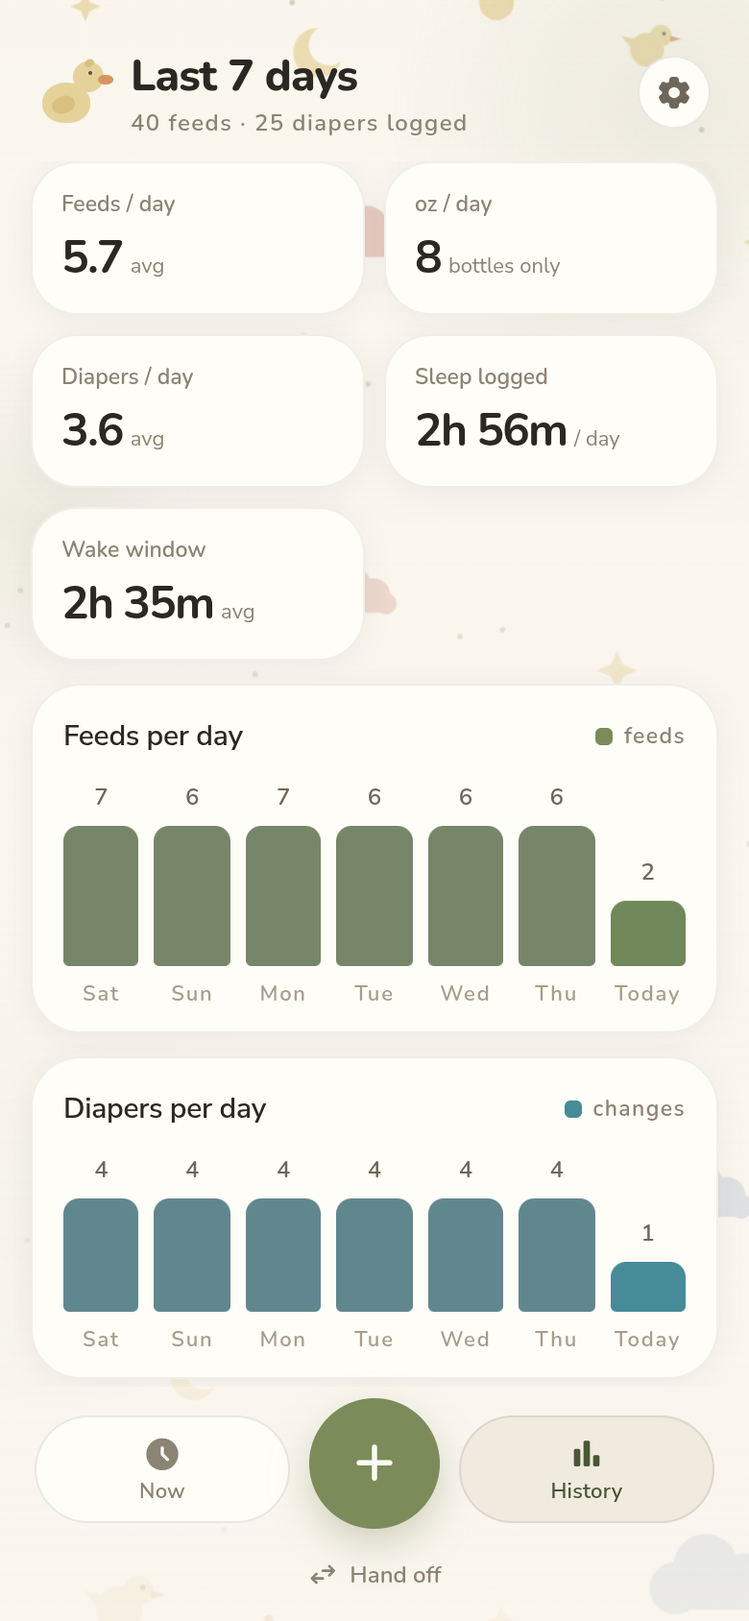
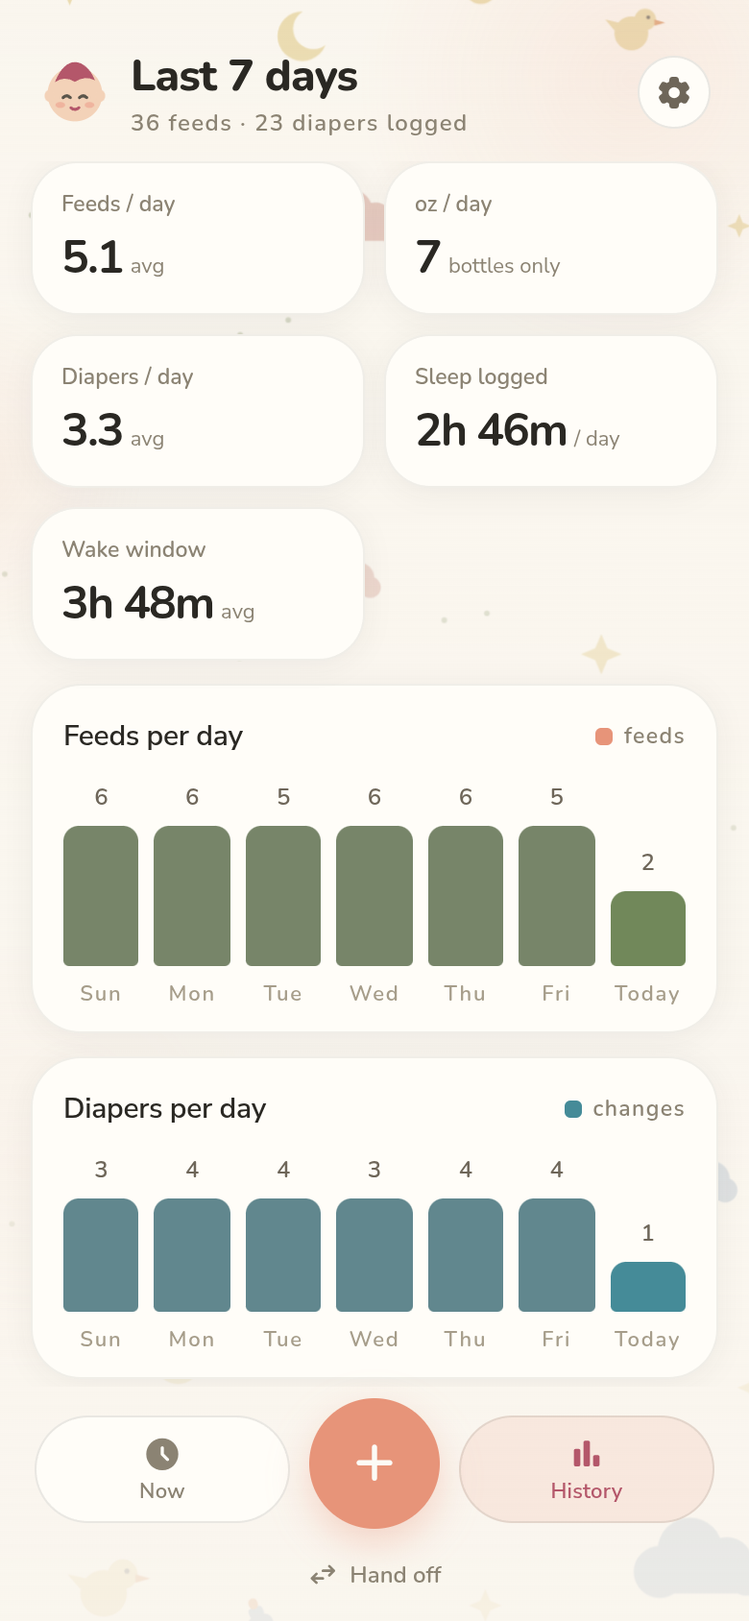
docs: accuracy audit — fix stale claims, add mybabynotes.app, retake post-rebrand screenshots
Audited every doc against the code and fixed what drifted:

- README: link mybabynotes.app; pump timers open the sheet (no auto-log);
  six pickable since-cards; partner-timer push; shared themes; honest
  pre-first-release install caveats (no tags/images on GHCR yet)
- api.md: document /forgot-password, /reset-password, /account/*; add
  formerMembers, limits, shift until_at + cancelled state, timer &
  feedEveryByChild prefs, theme/medName settings; fix invite 422-vs-403
  quirk and shift-request wording
- architecture.md: fallback polling is 20s (60s is the connected
  heartbeat) — also fixed in operations/ca-submission; document AIO
  container, Baby Buddy import, AccountProvisioner seam, sleep timers,
  push-subscribe poke exception, post-rebrand comp divergence
- operations.md: open-registration on script installs documented as
  unsupported (update wipes src/ before compose up); named-volume backup
  path for generic compose; babylog-reset-data is NAS-only
- ca-template.xml: Overview updated from "exactly two parents, one baby"
  to 6 adults / 10 children with parent/caregiver roles
- api/README.md: replace stock Laravel boilerplate with a pointer README
- screenshots: retaken from the demo household — the old set predated
  the rebrand by half a day and still showed the duck branding

diff --git a/docs/architecture.md b/docs/architecture.md
@@ -1,6 +1,6 @@
 # Architecture
 
-mybabynotes is three containers behind one nginx, built for one household sharing its babies' log — up to six grown-ups (parents and caregivers) and up to ten children.
+mybabynotes is three containers behind one nginx, built for one household sharing its babies' log — up to six grown-ups (parents and caregivers) and up to ten children. (The Unraid/CA build collapses the same three processes into a single all-in-one container — nginx, `artisan serve`, Reverb, and the scheduler under supervisord, secrets self-generated into `/data/.env` on first boot; see [deploy/aio/](../deploy/aio/) and [docs/operations.md](operations.md).)
 
 ```
                     ┌─────────────────────────────────────────────┐
@@ -16,7 +16,7 @@ mybabynotes is three containers behind one nginx, built for one household sharin
 ## Frontend (`src/`)
 
 - **Vite + React 18**, one class component ([src/App.jsx](../src/App.jsx)) holding all state — the app is small enough that a store library would be overhead.
-- **Design fidelity**: markup was ported 1:1 from the Claude Design comp in [design/Baby Log.dc.html](../design/Baby%20Log.dc.html). Inline CSS strings from the comp pass through [src/s.js](../src/s.js) (a cached CSS-string → style-object parser) so visual diffs against the comp stay reviewable. Hover states live as utility classes in [src/styles.css](../src/styles.css).
+- **Design fidelity**: markup was ported 1:1 from the Claude Design comp in [design/Baby Log.dc.html](../design/Baby%20Log.dc.html), and layout/structure still tracks it — but branding (baby-face logo in [src/Logo.jsx](../src/Logo.jsx), peach/plum palette, tri-color wordmark) has since been adopted from the newer marketing comp, so color surfaces intentionally diverge from the old comp. Inline CSS strings from the comp pass through [src/s.js](../src/s.js) (a cached CSS-string → style-object parser), which also rewrites comp hexes to the household-theme CSS variables. Hover states live as utility classes in [src/styles.css](../src/styles.css). Per-device effects (dark mode, tilt parallax) live in [src/fx.js](../src/fx.js) under their own `babylog:fx` localStorage key — deliberately never synced.
 - **PWA**: manifest + service worker ([public/sw.js](../public/sw.js)). The SW caches the app shell and Google Fonts; it **never** caches `/api` or `/app`.
 
 ## Local-first sync
@@ -24,19 +24,19 @@ mybabynotes is three containers behind one nginx, built for one household sharin
 The design brief: "Entries write locally first and sync when there's signal, so 3am logging never waits on a network."
 
 - Every entry is `{id, type, t, detail, deleted}` with a **client-generated UUID**, written to `localStorage` (`babylog:v2`) instantly.
-- Changed ids go into an **outbox**; a debounced flush POSTs them to `/api/entries` (batch upsert, last-write-wins, server stamps a `rev`).
-- Pulls hit `GET /api/state?since=<rev>` — one endpoint returns everything needed to converge (user, members, children, invites, duty, shift, changed entries, server caps (`limits`), removed-member name snapshots (`formerMembers`) — plus the legacy singular `partner`/`baby`/`invitePending` keys, kept so installed PWAs that predate multi-member keep working).
+- Changed ids go into an **outbox**; a debounced flush POSTs them to `/api/entries` in chunks of 500 (the server's batch cap — bulk sources like the Baby Buddy CSV import in [src/bbimport.js](../src/bbimport.js) ride the same outbox). Batch upsert, last-write-wins, server stamps a `rev`.
+- Pulls hit `GET /api/state?since=<rev>` — one endpoint returns everything needed to converge (user, members, children, invites, duty, shift, the running timer, household `settings`, changed entries (capped at 2000 per pull), server caps (`limits`), removed-member name snapshots (`formerMembers`), and `serverTime`, which the client stores as the next `since` — plus the legacy singular `partner`/`baby`/`invitePending` keys, kept so installed PWAs that predate multi-member keep working).
 - Every entry carries a `baby_id`; a client that omits it gets the primary (oldest) child on create, and an update without it never re-homes the entry — old single-child clients stay correct against a multi-child server.
 - **Deletes are tombstones** (`deleted: true`), so they sync like any other write; all views filter them.
 - Merge rule: server wins for any entry **not** currently in the outbox; unpushed local writes win until flushed.
 
 ## Realtime (Reverb)
 
-- Every write endpoint fires `HouseholdTouched` — a tiny "something changed" poke on the private channel `household.{id}` (auth: Sanctum bearer at `/api/broadcasting/auth`, channel gate checks `household_id`).
+- Every household-state write endpoint fires `HouseholdTouched` — a tiny "something changed" poke on the private channel `household.{id}` (auth: Sanctum bearer at `/api/broadcasting/auth`, channel gate checks `household_id`).
 - Clients respond to a poke by pulling `/api/state` — **the sync path is identical for sockets, polls, and reconnects**, so realtime can never introduce a second source of truth.
 - Writes send `X-Socket-ID`, and the server broadcasts `toOthers()` — you're never poked by your own write.
-- Broadcasts are **best-effort** (`HouseholdTouched::send()` swallows transport errors): a Reverb outage degrades to polling, never fails a write.
-- Fallbacks: 60s heartbeat poll, plus resync on window focus, `online`, and socket reconnect.
+- Broadcasts are **best-effort** (`HouseholdTouched::send()` swallows transport errors): a Reverb outage degrades to polling, never fails a write. (The one deliberate exception to "every write pokes": `/push/subscribe` and `/push/unsubscribe` are device-scoped, not household state, so they don't.)
+- Fallbacks: a 20s poll whenever the socket is down (relaxing to 60s while it's connected), plus resync on window focus, `visibilitychange`, `online`, and socket reconnect.
 
 ## Notifications
 
@@ -48,13 +48,13 @@ HTTPS origin the app already needs.
   `VAPID_PUBLIC_KEY`/`VAPID_PRIVATE_KEY` env vars override it. The public key
   rides `/state`.
 - **Subscription is per-device** (`push_subscriptions`, upserted by endpoint);
-  **prefs are per-user** (`users.notify_prefs`, edited in History →
+  **prefs are per-user** (`users.notify_prefs`, edited in Settings →
   Notifications, synced through `/state` like everything else). Expired
   endpoints self-prune when a push bounces.
 - **Event pushes** fire inline from write endpoints, fanned out to every other
   member: shift request / accept / handback (on by default — someone asking you
   to take over should reach a sleeping phone, so these ignore quiet hours), a
-  nursing/pump timer starting (on by default but informational, so it honors
+  nursing/pump/sleep timer starting (on by default but informational, so it honors
   quiet hours), and opt-in member activity ("Katrina logged a bottle",
   throttled to one per 10 min per recipient so backfill bursts don't rattle
   anyone).
@@ -81,20 +81,20 @@ HTTPS origin the app already needs.
 
 Laravel 13, SQLite, Sanctum bearer tokens.
 
-- **Household model**: `households` owns everything; a user belongs to exactly one household; max 6 users (`babylog.max_household_users`, `BABYLOG_MAX_USERS`) and 10 children (`babylog.max_children`). Every user has a role: **parent** (full control) or **caregiver** (may log entries, run timers, and take/hand back shifts; the household-shaping endpoints — `/baby`, `/children`, `/settings`, `/invite`, `/invite/revoke`, `/household/remove-member` — return 403). The first account on an instance is a parent. The legacy "partner" is now just the first other member (`Household::partnerOf`), kept for old clients and used only as a fallback.
+- **Household model**: `households` owns everything; a user belongs to exactly one household; max 6 users (`babylog.max_household_users`, `BABYLOG_MAX_USERS`) and 10 children (`babylog.max_children`, `BABYLOG_MAX_CHILDREN`). Every user has a role: **parent** (full control) or **caregiver** (may log entries, run timers, and take/hand back shifts; the household-shaping endpoints — `/baby`, `/children`, `/settings`, `/invite`, `/invite/revoke`, `/household/remove-member` — return 403). The first account on an instance is a parent. The legacy "partner" is now just the first other member (`Household::partnerOf`), kept for old clients and used only as a fallback.
 - **Children**: `babies` rows per household, id-ordered; the oldest is the *primary* child (what old clients call "the baby", and where entries without a `baby_id` land). Children are archived, never deleted — a child's log is history worth keeping.
 - **Invites**: a real `invites` table — email-bound, hashed single-use 6-char code, per-invite role, multiple concurrent, revocable. The code is shown once to the inviter and required at the invitee's registration; capacity counts members + outstanding invites. See [docs/api.md](api.md#auth) for the full lockdown rules.
-- **Duty & shifts**: household-level (not per child): `households.on_duty_user_id` tracks who has the kids. A `shifts` row moves through `requested → active → completed`:
-  - `request` — the on-duty member asks the others to take over (note attached; the ask fans out to every other member).
+- **Duty & shifts**: household-level (not per child): `households.on_duty_user_id` tracks who has the kids. A `shifts` row moves through `requested → active → completed` (or to `cancelled`, when a handback supersedes a still-pending ask or a member with an open shift is removed):
+  - `request` — a member (usually whoever's on duty; there's no ownership check) asks the others to take over (note attached; the ask fans out to every other member).
   - `accept` — another member starts their shift with a plan (drafted client-side from the feed rhythm) and an "until"; duty transfers. A requester can't accept their own ask.
   - `plan` — replace the active shift's plan (e.g. "Add to plan").
   - `handback` — shift completes with a note; duty returns to the shift's stored `requester_id` (falling back to the first other member for self-started shifts); clients render the report **from synced entries** (the report is computed, not stored).
-- **Prediction is client-side**: smart prefill, feed-gap rhythm, and plan drafting all run in the frontend from the local entry cache — the server stores facts, not guesses.
+- **Prediction is client-side**: smart prefill, feed-gap rhythm, and plan drafting run in the frontend from the local entry cache — the server stores facts, not guesses. (The reminder scheduler mirrors the same cluster-aware rhythm math server-side to time feed-gap pushes — see `SendReminders` — but nothing predicted is ever stored.)
 
 ## Security posture
 
-- Invite-only registration (first account, or invited email + code); `BABYLOG_OPEN_REGISTRATION=true` opts out.
-- Throttles: 10/min on register/login, 120/min on authed routes; nginx `limit_req` on `/api` and `limit_conn` on `/app`; Reverb rate limiting + connection cap in production.
+- Invite-only registration (first account, or invited email + code); `BABYLOG_OPEN_REGISTRATION=true` opts out. The policy itself is a swappable extension point: an `AccountProvisioner` contract, bound via `babylog.account_provisioner` (default `InstanceClaimProvisioner`) — the seam a hosted multi-tenant deployment would replace.
+- Throttles: 10/min on register/login/forgot-password/reset-password, 120/min on authed routes; nginx `limit_req` on `/api` and `limit_conn` on `/app`; Reverb rate limiting + connection cap in production.
 - Passwords ≥ 8, hashed (Laravel default); tokens are Sanctum (hashed at rest, no cookies → no CSRF surface).
 - Secrets are never in the repo: dev reads a git-ignored `.env`; the Unraid installer generates fresh values on first run.
 - TLS terminates at the reverse proxy; Laravel trusts proxies for scheme detection.

diff --git a/docs/api.md b/docs/api.md
@@ -1,6 +1,6 @@
 # API Reference
 
-Base path `/api`. JSON in/out (`Accept: application/json`). Authenticated routes take `Authorization: Bearer <token>` (Sanctum). Validation failures return `422` with `{message, errors}`; throttling returns `429`; missing/бad auth returns `401`.
+Base path `/api`. JSON in/out (`Accept: application/json`). Authenticated routes take `Authorization: Bearer <token>` (Sanctum). Validation failures return `422` with `{message, errors}`; throttling returns `429`; missing/bad auth returns `401`.
 
 ## Auth
 
@@ -23,6 +23,23 @@ Returns `201 { "token": "…", "joinedPartner": bool }`. The first user of a hou
 ### `POST /logout` (auth)
 Revokes the current token.
 
+### `POST /forgot-password` — throttle 10/min
+`{ email }`. With SMTP configured, emails a reset token and returns `200 { sent: true }` **whether or not the account exists** (no account enumeration). Without SMTP it returns `200 { sent: false, reason: "mail-unconfigured" }` so the client can point at the invite-code fallback instead.
+
+### `POST /reset-password` — throttle 10/min
+`{ token, email, password (min 8) }` — consumes the emailed token and sets the new password; every one of the user's tokens is revoked (all devices sign out). Bad/used token → 422.
+
+## Account — all auth + throttle 120/min
+
+### `POST /account/profile`
+`{ name (≤100) }` → `{ ok, name }`, broadcasts an `account` poke (the name shows up in duty chips and handoffs).
+
+### `POST /account/email`
+`{ email, password }` — requires the current password; wrong password or already-used email → 422. Returns `{ ok, email }`.
+
+### `POST /account/password`
+`{ current_password, password (min 8) }` — wrong current password → 422. Revokes every **other** token (other devices sign out; the calling device stays in).
+
 ## Sync — all auth + throttle 120/min
 
 ### `GET /state?since=<rev>`
@@ -30,8 +47,9 @@ The single polling/converge endpoint.
 ```json
 {
   "user":    { "id": 1, "name": "Ben", "email": "ben@example.com", "role": "parent", "householdId": 1,
-               "notifyPrefs": { "handoff": true, "partner": false, "feed": false, "feedEvery": null,
-                                "onDutyOnly": true, "wake": false, "meds": false, "medsTime": "09:00",
+               "notifyPrefs": { "handoff": true, "timer": true, "partner": false, "feed": false,
+                                "feedEvery": null, "feedEveryByChild": {}, "onDutyOnly": true,
+                                "wake": false, "meds": false, "medsTime": "09:00",
                                 "quiet": false, "quietStart": "22:00", "quietEnd": "07:00", "tz": null } },
   "members": [ { "id": 1, "name": "Ben", "role": "parent" },
                { "id": 2, "name": "Katrina", "role": "parent" },
@@ -39,14 +57,18 @@ The single polling/converge endpoint.
   "children": [ { "id": 10, "name": "Wren", "age": "2–8 wks", "birthdate": "2026-07-20",
                   "archived": false } ],              // id-ordered; the first is the primary child
   "invites": [ { "email": "granny@example.com", "role": "caregiver" } ],  // pending, id-ordered
+  "formerMembers": [ { "id": 4, "name": "Doula Dana" } ],  // removed members, for naming their old entries
+  "limits":  { "maxMembers": 6, "maxChildren": 10 },
   "partner": { "id": 2, "name": "Katrina" },        // LEGACY: first other member, or null
   "invitePending": "granny@example.com",             // LEGACY: first pending invite's email, or null
   "baby":    { "name": "Wren", "age": "2–8 wks", "birthdate": "2026-07-20" },  // LEGACY: the primary child, or null
   "onDutyUserId": 1,
-  "settings": { "tracking": {"diapers": false}, "dismissed": ["meds"] },  // or null
-  "shift":   { "id": 3, "state": "requested|active|completed", "requester_id": 1,
+  "settings": { "tracking": {"diapers": false}, "dismissed": ["meds"], "widgets": ["feeds","sleep"],
+                "unit": "oz", "theme": {"accent":"plum","bg":"mist"}, "medName": "Vitamin D" },  // or null
+  "shift":   { "id": 3, "state": "requested|active|completed|cancelled", "requester_id": 1,
                "user_id": 2, "note": "…", "plan": [{"id":"p1","type":"bottle","at":1750000000000}],
-               "until": "Until 6 AM", "requested_at": 0, "started_at": 0, "ended_at": 0,
+               "until": "Until 6 AM", "until_at": 1750000000000, "until_notified_at": null,
+               "requested_at": 0, "started_at": 0, "ended_at": 0,
                "handback_note": "…" },               // latest row, or null
   "timer":   { "id": "uuid", "type": "nurse", "started_at": 0, "user_id": 1,
                "baby_id": 10 },                      // running timer, or null; baby_id null ⇒ primary child
@@ -76,7 +98,7 @@ Batch upsert from the client outbox (≤ 500 per call).
 `{ id?, name (≤100), age?, birthdate?, archived? }` — create (no `id`; 422 at the cap of `babylog.max_children`, default 10) or update (`id` must belong to the household, else 422 without a write) one child. Same key-presence rule as `/baby`. There is **no delete** — retiring a child only sets `archived: true` (its log is history worth keeping). Returns `{ ok, child }`, broadcasts a poke.
 
 ### `POST /invite` — parents only
-`{ email, role?: "parent"|"caregiver" (default parent) }` → `{ ok, code, mailed }`. Inserts a row in the `invites` table (lowercased email, hashed single-use code, role); **the plaintext code is returned only here** — with SMTP configured it is also emailed (`mailed: true`). Capacity counts members **plus outstanding invites** against `babylog.max_household_users` (default 6) → 422 when full. Re-inviting the same email replaces its row (fresh code, updated role) and doesn't take a second seat; multiple concurrent invites to different emails are fine.
+`{ email, role?: "parent"|"caregiver" (default parent) }` → `{ ok, code, mailed }`. Inserts a row in the `invites` table (lowercased email, hashed single-use code, role); **the plaintext code is returned only here** — with SMTP configured it is also emailed (`mailed: true`). Capacity counts members **plus outstanding invites** against `babylog.max_household_users` (default 6) → 422 when full. Re-inviting the same email replaces its row (fresh code, updated role) and doesn't take a second seat; multiple concurrent invites to different emails are fine. One quirk: this endpoint validates before checking the role, so a caregiver posting a *malformed* payload gets 422, not 403 (the 403 holds for well-formed requests).
 
 ### `POST /invite/revoke` — parents only
 `{ email }` — deletes the pending invite; its code stops opening doors immediately. Returns `{ ok }`, broadcasts a poke.
@@ -88,7 +110,7 @@ Batch upsert from the client outbox (≤ 500 per call).
 ```json
 { "tracking": { "diapers": false }, "dismissed": ["meds"] }
 ```
-Household-level preferences, shared by every member; last write wins. `tracking` maps a tracker key to on/off — keys outside `pump diapers sleep bath meds` are silently dropped (feeds can't be turned off). `dismissed` lists trackers whose "turn this off?" nudge was declined. `widgets` is the ordered list of "since last …" cards shown on the Now screen (from `feeds pump diapers sleep bath meds`; unknowns/duplicates dropped, client order kept; omitted/empty ⇒ the client's default set). `unit` is the display unit for bottle/pump amounts (`oz` or `ml`, default `oz`) — display only: entry `detail` amounts are always stored and synced in oz. Each provided top-level key replaces the stored one wholesale. Returns `{ ok, settings }`, broadcasts a poke.
+Household-level preferences, shared by every member; last write wins. `tracking` maps a tracker key to on/off — keys outside `pump diapers sleep bath meds` are silently dropped (feeds can't be turned off). `dismissed` lists trackers whose "turn this off?" nudge was declined. `widgets` is the ordered list of "since last …" cards shown on the Now screen (from `feeds pump diapers sleep bath meds`; unknowns/duplicates dropped, client order kept; omitted/empty ⇒ the client's default set). `unit` is the display unit for bottle/pump amounts (`oz` or `ml`, default `oz`) — display only: entry `detail` amounts are always stored and synced in oz. `theme` is the household-shared palette: `accent` ∈ `olive clay rose plum sea denim`, `bg` ∈ `cream blush mist sage lilac` — any other value → 422; an absent key means the default (peach accent / cream background), which is why "peach" and plain "cream" are never stored. `medName` (nullable, ≤40, trimmed) names the daily med; clients show "Vitamin D" when blank. Each provided top-level key replaces the stored one wholesale. Returns `{ ok, settings }`, broadcasts a poke.
 
 ## Push notifications — all auth + throttle 120/min
 
@@ -102,7 +124,7 @@ Registers this device for Web Push. Upserts by `endpoint` — re-subscribing (or
 `{ endpoint }` — removes the caller's row for that endpoint (other users' rows are untouched). Expired endpoints also self-prune when a push bounces 404/410.
 
 ### `POST /notify-prefs`
-Any subset of the `notifyPrefs` keys shown in `/state`; provided keys merge over stored ones. `feedEvery` ∈ `null|120|150|180|210|240` (minutes; null = learned household rhythm), times are `HH:MM`. Per-user (each parent has their own), rides `/state`, pokes so the caller's other devices converge. Returns `{ ok, prefs }`.
+Any subset of the `notifyPrefs` keys shown in `/state`; provided keys merge over stored ones. `feedEvery` ∈ `null|120|150|180|210|240` (minutes; null = learned household rhythm), times are `HH:MM`. `feedEveryByChild` (`{childId: minutes}`) overrides `feedEvery` per child and replaces wholesale — keys for children outside the household and `null` values are silently dropped, not rejected. Per-user (each parent has their own), rides `/state`, pokes so the caller's other devices converge. Returns `{ ok, prefs }`.
 
 **What gets sent** (see [architecture.md](architecture.md#notifications)): handoff request/accept/handback pushes fire inline from the shift endpoints (respecting the recipient's `handoff` pref, ignoring quiet hours); member-activity pushes fire from `POST /entries` to every other member (opt-in, throttled to one per 10 min per recipient); feed-gap and wake-window reminders (per non-archived child) and the daily-meds nudge are sent by `babylog:reminders`, scheduled every minute.
 
@@ -121,7 +143,7 @@ Clears `active_timer`, broadcasts a poke. Returns `{ ok }`. The client logs the 
 Shifts are household-level (who has the kids), not per child. Any member — parent or caregiver — can take part.
 
 ### `POST /shifts/request`
-`{ note? }` — the on-duty member asks the rest of the household to take over; the push fans out to every other member. Asking again while a request is pending **refreshes it and re-pings** (a deliberate nudge, not a no-op).
+`{ note? }` — any member (on duty or not — there's no ownership check) asks the rest of the household to take over; the push fans out to every other member. Asking again while a request is pending **refreshes it and re-pings** (a deliberate nudge, not a no-op).
 
 ### `POST /shifts/accept`
 `{ plan?: [{id,type,at}] (≤20), until?, until_at? }` — accepts the pending request (or starts a shift outright). Accepting **your own** request → 422, the ask stays open. Sets duty to caller, `state=active`, returns the shift; the requester is pushed "you're covered", everyone else "…is on duty now". `at` is `numeric` and coerced to integer ms — the client derives it from an averaged feed gap, and a fractional value must never reject the whole handoff.

diff --git a/docs/operations.md b/docs/operations.md
@@ -29,11 +29,13 @@ Unraid webGui → **Settings → User Scripts → `babylog-update` → Run Scrip
 
 ## Wipe all data (testing)
 
-**Settings → User Scripts → `babylog-reset-data`** — stops api+reverb, deletes `database.sqlite`, restarts (migrations recreate it). Every account and entry is gone; **the next sign-up claims the instance**. Secrets are kept.
+**Settings → User Scripts → `babylog-reset-data`** — stops api+reverb, deletes `database.sqlite`, restarts (migrations recreate it). Every account and entry is gone; **the next sign-up claims the instance**. Secrets are kept. (Unlike `babylog-update`, this script lives only on the NAS — it isn't tracked in the repo, so recreate it by hand after a flash rebuild: stop api+reverb, `rm data/database.sqlite`, start.)
 
 ## Backups
 
 The entire state is one file: `/mnt/user/appdata/baby-log/data/database.sqlite` (plus `.env` for the secrets). Unraid's **Appdata Backup** plugin covers `appdata/baby-log` if installed — verify it's included in its share list. Manual restore: stop api+reverb, replace the sqlite file, start.
+
+On a generic Docker Compose install (the repo-root compose file), the database lives in the **named volume** `babylog-db`, not a host path — back it up with e.g. `docker run --rm -v babylog-db:/data -v "$PWD:/backup" alpine cp /data/database.sqlite /backup/`, plus your `.env`.
 
 ## Remote access (reverse proxy)
 
@@ -43,7 +45,7 @@ If realtime breaks remotely but works on LAN, check the websocket toggle on the 
 
 ## Registration policy
 
-Invite-only by default: the first sign-up claims a fresh instance; after that only invited emails with their single-use code can register. To open it up (not recommended while public): add `BABYLOG_OPEN_REGISTRATION: "true"` to the api service env in the Unraid compose and re-run the update script.
+Invite-only by default: the first sign-up claims a fresh instance; after that only invited emails with their single-use code can register. To open it up (not recommended while public): on the all-in-one/CA install, add a `BABYLOG_OPEN_REGISTRATION=true` container variable in Unraid's container editor. On the compose-based script install there is currently **no persistent way** — the update script replaces `src/` wholesale, so a hand-edit to the deployed compose file dies on the next update, and the variable isn't interpolated from the appdata `.env`. Treat it as unsupported there until the deploy compose passes the variable through.
 
 ## Enabling email (invite mail + password reset)
 
@@ -61,7 +63,7 @@ MAIL_FROM_ADDRESS=you@example.com
 
 Then run **`babylog-update`** once. That's required, not optional: compose only injects `.env` values into the containers when it (re)creates them, and the update script's `docker compose up -d` recreates api+reverb because their environment changed. Nothing else — no config cache to clear (the containers don't run `config:cache`), no manual container restarts.
 
-With mail on: invites also email the code to the partner (the on-screen code still works and stays the source of truth), and "Forgot password?" emails a reset link pointing at `APP_URL/?reset=…` — so `APP_URL` in that same `.env` must be the real public origin (e.g. `https://babylog.example.com`) or the links will point somewhere useless. A failed SMTP send never blocks an invite; it falls back to code-only (`mailed: false`).
+With mail on: invites also email the code to the partner (the on-screen code still works and stays the source of truth), and "Forgot password?" emails a reset link pointing at `APP_URL/?reset=…` — so `APP_URL` in that same `.env` must be the real public origin (e.g. `https://notes.example.com`) or the links will point somewhere useless. A failed SMTP send never blocks an invite; it falls back to code-only (`mailed: false`).
 
 ## Local development
 
@@ -88,7 +90,7 @@ Two accounts in one browser: open `http://localhost:3500` and `http://127.0.0.1:
 
 ## CI / images
 
-`.github/workflows/build-images.yml`: on every push to `main`, runs the API test suite, then (only if green) builds and pushes `ghcr.io/straplocked/mybabynotes-app` and `…-api` (`:main` + commit SHA).
+`.github/workflows/build-images.yml`: on every push to `main` (or manual `workflow_dispatch`), runs the API test suite, then (only if green) builds and pushes `ghcr.io/straplocked/mybabynotes-app` and `…-api` (`:main` + commit SHA).
 
 `.github/workflows/release.yml`: pushing a `v*` tag runs the same test suite, then builds and pushes all three images — `mybabynotes-app`, `mybabynotes-api`, and `mybabynotes-aio` — tagged `:vX.Y.Z` **and** `:latest` (releases own `:latest`; `main` builds never touch it), then creates a GitHub Release with generated notes, a `git archive` source tarball (`mybabynotes-vX.Y.Z.tar.gz`), and its sha256 in `checksums.txt`. The Unraid updater consumes that tarball + checksum; the images are the basis for the Unraid Community Apps template.
 
@@ -114,14 +116,14 @@ docker run -d -p 3500:80 -v /path/to/data:/data mybabynotes-aio
 - **`/data` is the instance**: `database.sqlite` + a `.env` holding the secrets. Back up that volume and you have everything.
 - **Secrets self-generate on first boot** (CA templates can't generate secrets): an empty `/data` gets a fresh `APP_KEY` and `REVERB_*` written to `/data/.env`; later boots reuse it. Migrations run on every boot.
 - The generated `REVERB_APP_KEY` is stamped into the served PWA bundle at boot (the image bakes a placeholder), so realtime works without any build-time coupling.
-- **Config**: set container env vars (`APP_URL`, `MAIL_*`, `REVERB_ALLOWED_ORIGINS`, `BABYLOG_OPEN_REGISTRATION`, …) in the template, or append them to `/data/.env` and restart the container — container env wins over the file. (Editing `REVERB_APP_KEY` itself needs a re**create**, so the fresh filesystem gets re-stamped.)
+- **Config**: set container env vars in Unraid's container editor (the template pre-declares `APP_URL` and `REVERB_ALLOWED_ORIGINS`; add `MAIL_*`, `BABYLOG_OPEN_REGISTRATION`, etc. as extra variables by hand), or append them to `/data/.env` and restart the container — container env wins over the file. (Editing `REVERB_APP_KEY` itself needs a re**create**, so the fresh filesystem gets re-stamped.)
 - Reverse proxy guidance is the same as above: point it at this container's port 80 with websocket support enabled.
 
 ## Troubleshooting
 
 | Symptom | Check |
 |---|---|
-| App up, changes not appearing on partner's phone | `docker logs baby-log-reverb`; NPM websocket toggle; client falls back to 60s polls so data still converges |
+| App up, changes not appearing on partner's phone | `docker logs baby-log-reverb`; NPM websocket toggle; client falls back to 20s polls so data still converges |
 | 500s from `/api` | `docker logs baby-log-api` (Laravel logs to stderr) |
 | "invite-only" on a legit partner signup | Exact email match required (lowercased) + the code from the invite toast; re-invite to regenerate a code |
 | Update script fails on compose | Compose Manager plugin must be installed (provides `docker compose`) |

diff --git a/api/README.md b/api/README.md
@@ -1,58 +1,14 @@
-<p align="center"><a href="https://laravel.com" target="_blank"><img src="https://raw.githubusercontent.com/laravel/art/master/logo-lockup/5%20SVG/2%20CMYK/1%20Full%20Color/laravel-logolockup-cmyk-red.svg" width="400" alt="Laravel Logo"></a></p>
+# mybabynotes — API
 
-<p align="center">
-<a href="https://github.com/laravel/framework/actions"><img src="https://github.com/laravel/framework/workflows/tests/badge.svg" alt="Build Status"></a>
-<a href="https://packagist.org/packages/laravel/framework"><img src="https://img.shields.io/packagist/dt/laravel/framework" alt="Total Downloads"></a>
-<a href="https://packagist.org/packages/laravel/framework"><img src="https://img.shields.io/packagist/v/laravel/framework" alt="Latest Stable Version"></a>
-<a href="https://packagist.org/packages/laravel/framework"><img src="https://img.shields.io/packagist/l/laravel/framework" alt="License"></a>
-</p>
+The Laravel 13 backend for [mybabynotes](../README.md) ([mybabynotes.app](https://mybabynotes.app)): SQLite, Sanctum bearer tokens, Reverb websockets.
 
-## About Laravel
+- Endpoint reference: [docs/api.md](../docs/api.md)
+- System design: [docs/architecture.md](../docs/architecture.md)
+- Conventions for working in this directory: [CLAUDE.md](CLAUDE.md)
 
-Laravel is a web application framework with expressive, elegant syntax. We believe development must be an enjoyable and creative experience to be truly fulfilling. Laravel takes the pain out of development by easing common tasks used in many web projects, such as:
-
-- [Simple, fast routing engine](https://laravel.com/docs/routing).
-- [Powerful dependency injection container](https://laravel.com/docs/container).
-- Multiple back-ends for [session](https://laravel.com/docs/session) and [cache](https://laravel.com/docs/cache) storage.
-- Expressive, intuitive [database ORM](https://laravel.com/docs/eloquent).
-- Database agnostic [schema migrations](https://laravel.com/docs/migrations).
-- [Robust background job processing](https://laravel.com/docs/queues).
-- [Real-time event broadcasting](https://laravel.com/docs/broadcasting).
-
-Laravel is accessible, powerful, and provides tools required for large, robust applications.
-
-## Learning Laravel
-
-Laravel has the most extensive and thorough [documentation](https://laravel.com/docs) and video tutorial library of all modern web application frameworks, making it a breeze to get started with the framework.
-
-In addition, [Laracasts](https://laracasts.com) contains thousands of video tutorials on a range of topics including Laravel, modern PHP, unit testing, and JavaScript. Boost your skills by digging into our comprehensive video library.
-
-You can also watch bite-sized lessons with real-world projects on [Laravel Learn](https://laravel.com/learn), where you will be guided through building a Laravel application from scratch while learning PHP fundamentals.
-
-## Agentic Development
-
-Laravel's predictable structure and conventions make it ideal for AI coding agents like Claude Code, Cursor, and GitHub Copilot. Install [Laravel Boost](https://laravel.com/docs/ai) to supercharge your AI workflow:
+Host PHP isn't required — run everything through containers from the repo root:
 
 ```bash
-composer require laravel/boost --dev
-
-php artisan boost:install
+docker run --rm -v "$PWD/api:/app" -w /app composer:2 php artisan <cmd>
+docker run --rm -v "$PWD/api:/app" -w /app -e BROADCAST_CONNECTION=log composer:2 php artisan test --compact
 ```
-
-Boost provides your agent 15+ tools and skills that help agents build Laravel applications while following best practices.
-
-## Contributing
-
-Thank you for considering contributing to the Laravel framework! The contribution guide can be found in the [Laravel documentation](https://laravel.com/docs/contributions).
-
-## Code of Conduct
-
-In order to ensure that the Laravel community is welcoming to all, please review and abide by the [Code of Conduct](https://laravel.com/docs/contributions#code-of-conduct).
-
-## Security Vulnerabilities
-
-If you discover a security vulnerability within Laravel, please send an e-mail to Taylor Otwell via [taylor@laravel.com](mailto:taylor@laravel.com). All security vulnerabilities will be promptly addressed.
-
-## License
-
-The Laravel framework is open-sourced software licensed under the [MIT license](https://opensource.org/licenses/MIT).

diff --git a/docs/known-limitations.md b/docs/known-limitations.md
@@ -17,7 +17,7 @@ Honest list of what's missing, stubbed, or deliberately deferred — the startin
 - **The daily meds nudge is household-level** — one dose tracked, not per child. (Feed reminders *do* have per-child intervals.)
 - **Shifts are household-level** ("who has the kids"), not per child. The shift sheet's drafted plan and "Right now" rows read the currently selected child's rhythm; there's no explicit per-child or all-children framing in the sheet.
 - **Members removed before 2026-09-04** have no name snapshot in `households.former_members`, so their old entries render without an attribution chip. Not recoverable.
-- **Timer stop and `/shifts/plan` have no ownership checks** — any member can stop the household timer; plan replaces only your own active shift. Noted in case it wants tightening.
+- **Timer stop has no ownership check at the API layer** — the client only lets the member who started a timer stop it, but the endpoint itself would accept anyone's stop. Not reachable from the UI; noted in case it wants tightening server-side. (`/shifts/plan` is fine — it only ever touches the caller's own active shift.)
 
 ## Shift-system edges
 
@@ -32,5 +32,5 @@ Honest list of what's missing, stubbed, or deliberately deferred — the startin
 - Sanctum token expiry counts from login, not last use — even a daily-use phone re-logs-in every ~90 days (the 401 lands on the login screen cleanly).
 - **No admin/first-user tooling**: wiping data is the only way to un-claim an instance (`babylog-reset-data`).
 - nginx rate limits key on the proxy's IP (instance-wide behind a reverse proxy/CDN) — acceptable for an appliance, worth revisiting with real-IP forwarding if it ever misfires.
-- Frontend has no test suite (the API has 81 feature tests). The class-component + `renderVals()` structure was chosen for design fidelity; if iteration gets heavy, consider extracting screens into components with tests.
+- Frontend has no test suite (the API has ~80 feature tests). The class-component + `renderVals()` structure was chosen for design fidelity; if iteration gets heavy, consider extracting screens into components with tests.
 - History rewrite note: pre-2026-09-02 commit SHAs changed when the leaked dev key was scrubbed. Old clones must re-clone.

diff --git a/docs/ca-submission.md b/docs/ca-submission.md
@@ -68,7 +68,7 @@ mapped port, because:
 
 - the PWA install prompt and web-push notifications only exist on HTTPS origins;
 - realtime sync is a websocket at `/app` — without proxied websockets the app silently degrades to
-  60-second polling;
+  20-second polling;
 - `APP_URL` should then be set to the public origin (template's advanced variable) so emails and
   the push VAPID subject are correct.
 
@@ -109,10 +109,11 @@ URL exists).
 >   on the LAN. The first account registered claims the instance; registration is invite-only
 >   after that.
 > - Everything lives in the one appdata share (`database.sqlite` + `.env`). Back that folder up
->   and you've backed up the app. Losing the `.env` strands encrypted data — don't delete it.
+>   and you've backed up the app. Keep the `.env` with it — it holds the instance's secrets, and
+>   losing it means fresh keys and re-pairing realtime on next boot.
 > - **Remote access / phones outside the LAN:** put an HTTPS reverse proxy with **websocket
 >   support** in front (NPM, SWAG, Caddy). HTTPS is required for the PWA install prompt and push
->   notifications; without proxied websockets, live sync falls back to 60-second polling. Set the
+>   notifications; without proxied websockets, live sync falls back to 20-second polling. Set the
 >   `APP_URL` variable (Advanced view) to your public origin.
 > - Invite emails need SMTP (`MAIL_*` appended to `/data/.env`); without it the app shows a
 >   shareable invite code instead, so email is optional.
